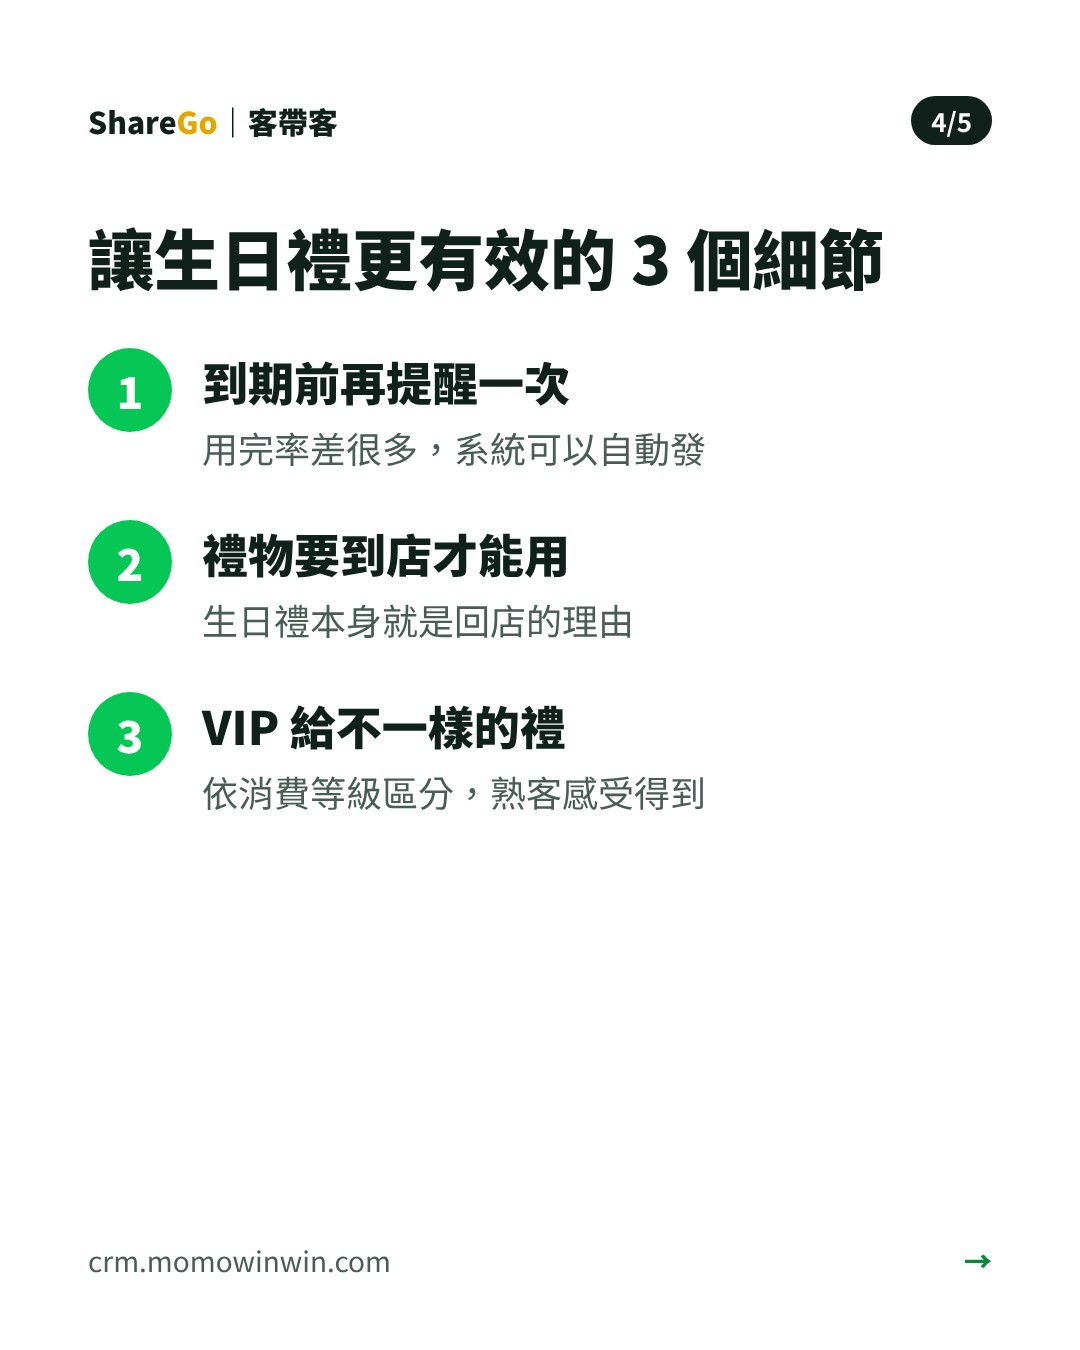
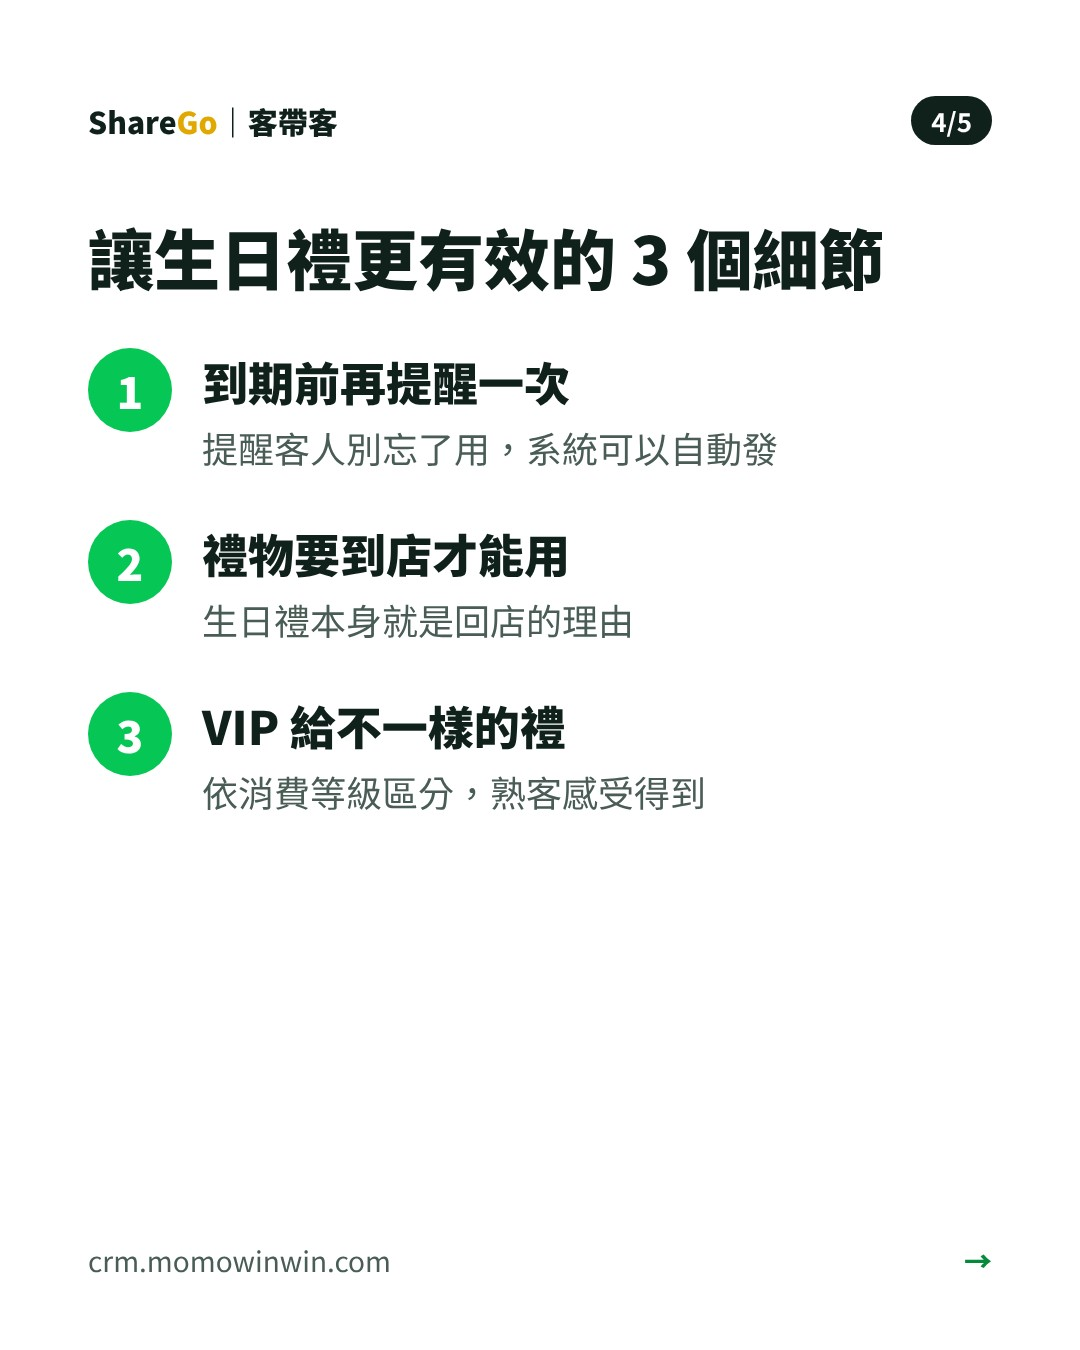
IG：選選看：生日禮什麼時候發最有效
Claude-Session: https://claude.ai/code/session_01LXq9Wgbb8mmnN7ZpvHgqtk

Changed region(s): [[0.1833, 0.3111, 0.7333, 0.3422]]

diff --git a/_ops/ig/log.md b/_ops/ig/log.md
@@ -4,3 +4,4 @@
 | 2026-11-27 | pin/c-plan（方案試算） | 輪播 5 | 18172489888415559 |
 | 2026-11-27 | pin/b-guide（4 步驟指南） | 輪播 6 | 18131837821963128 |
 | 2026-11-27 | pin/a-intro（自我介紹，置頂） | 輪播 5 | 18117586088122257 |
+| 2026-11-28 | 2026-11-28-quiz-birthday（選選看：生日禮） | 輪播 5 ＋限動 | 貼文：（待填）／限動：（待填） |
